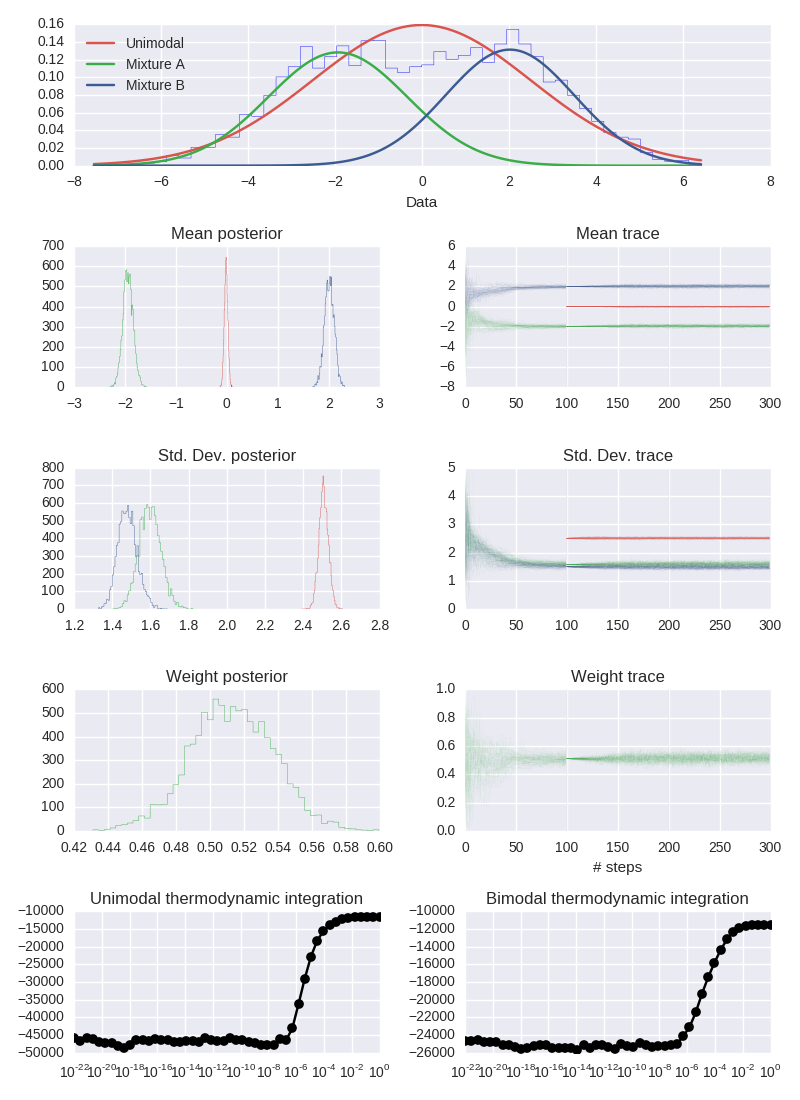
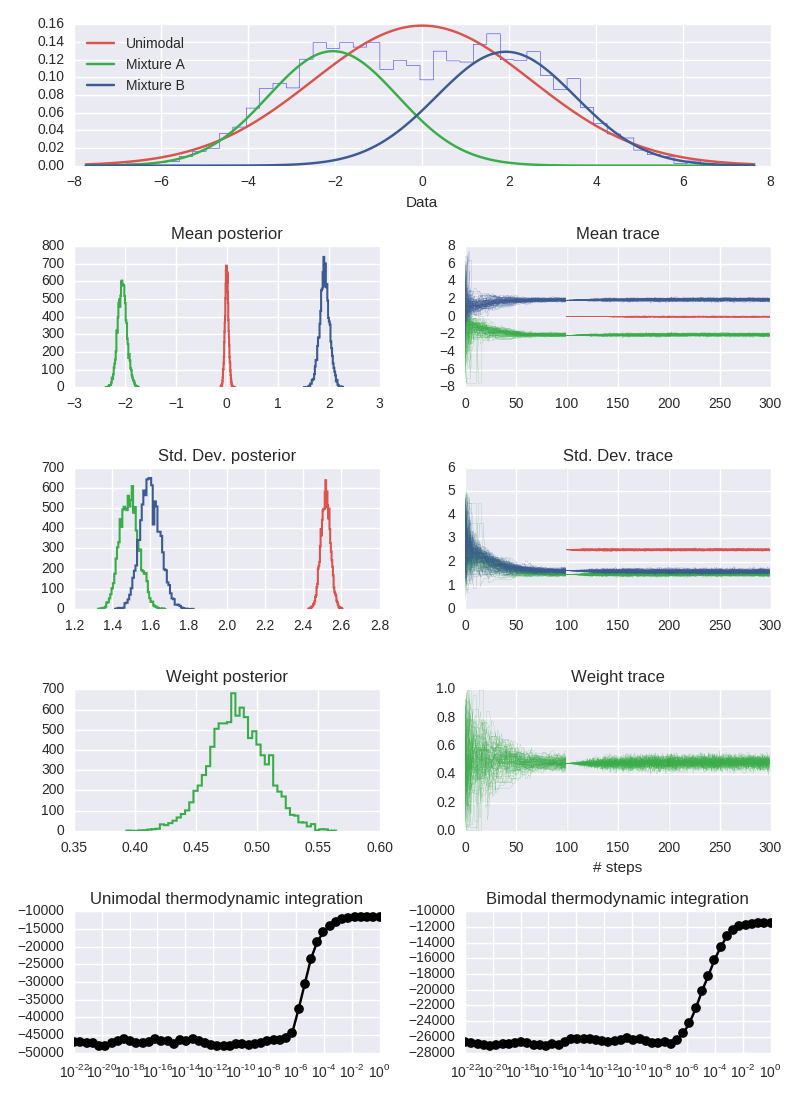
Improve read me and add Occam factor

diff --git a/BayesBimodalTest.py b/BayesBimodalTest.py
@@ -130,7 +130,8 @@ class BayesBimodalTest():
         self.bimodal_sigmaB = np.mean(self.bimodal_samples[:, 3])
         self.bimodal_p = np.mean(self.bimodal_samples[:, 4])
 
-    def diagnostic_plot(self, fname="diagnostic.png"):
+    def diagnostic_plot(self, fname="diagnostic.png", trace_line_width=0.1,
+                        hist_line_width=1.5):
         fig = plt.figure(figsize=(8, 11))
         unimodal_color = sns.xkcd_rgb["pale red"]
         bimodal_colorA = sns.xkcd_rgb["medium green"]
@@ -155,58 +156,58 @@ class BayesBimodalTest():
         ax00.legend(loc=2, frameon=False)
 
         ax10 = plt.subplot2grid((5, 2), (1, 0))
-        ax10.hist(self.unimodal_samples[:, 0], bins=50,
+        ax10.hist(self.unimodal_samples[:, 0], bins=50, linewidth=hist_line_width,
                   histtype="step", color=unimodal_color, label="$\mu_{0}$")
-        ax10.hist(self.bimodal_samples[:, 0], bins=50,
+        ax10.hist(self.bimodal_samples[:, 0], bins=50, linewidth=hist_line_width,
                   histtype="step", color=bimodal_colorA, label="$\mu_{A}$")
-        ax10.hist(self.bimodal_samples[:, 1], bins=50,
+        ax10.hist(self.bimodal_samples[:, 1], bins=50, linewidth=hist_line_width,
                   histtype="step", color=bimodal_colorB, label="$\mu_{B}$")
         ax10.set_title("Mean posterior")
 
         ax11 = plt.subplot2grid((5, 2), (1, 1))
-        ax11.plot(prods, self.unimodal_chains[:, :, 0].T, lw=0.01,
+        ax11.plot(prods, self.unimodal_chains[:, :, 0].T, lw=trace_line_width,
                   color=unimodal_color)
-        ax11.plot(burn0s, self.bimodal_chains0[:, :, 0].T, lw=0.01,
+        ax11.plot(burn0s, self.bimodal_chains0[:, :, 0].T, lw=trace_line_width,
                   color=bimodal_colorA)
-        ax11.plot(prods, self.bimodal_chains[:, :, 0].T, lw=0.01,
+        ax11.plot(prods, self.bimodal_chains[:, :, 0].T, lw=trace_line_width,
                   color=bimodal_colorA)
-        ax11.plot(burn0s, self.bimodal_chains0[:, :, 1].T, lw=0.01,
+        ax11.plot(burn0s, self.bimodal_chains0[:, :, 1].T, lw=trace_line_width,
                   color=bimodal_colorB)
-        ax11.plot(prods, self.bimodal_chains[:, :, 1].T, lw=0.01,
+        ax11.plot(prods, self.bimodal_chains[:, :, 1].T, lw=trace_line_width,
                   color=bimodal_colorB)
         ax11.set_title("Mean trace")
 
         ax20 = plt.subplot2grid((5, 2), (2, 0))
-        ax20.hist(self.unimodal_samples[:, 1], bins=50,
+        ax20.hist(self.unimodal_samples[:, 1], bins=50, linewidth=hist_line_width,
                   histtype="step", color=unimodal_color, label="$\sigma_{0}$")
-        ax20.hist(self.bimodal_samples[:, 2], bins=50,
+        ax20.hist(self.bimodal_samples[:, 2], bins=50, linewidth=hist_line_width,
                   histtype="step", color=bimodal_colorA, label="$\sigma_{A}$")
-        ax20.hist(self.bimodal_samples[:, 3], bins=50,
+        ax20.hist(self.bimodal_samples[:, 3], bins=50, linewidth=hist_line_width,
                   histtype="step", color=bimodal_colorB, label="$\sigma_{B}$")
         ax20.set_title("Std. Dev. posterior")
 
         ax21 = plt.subplot2grid((5, 2), (2, 1))
-        ax21.plot(prods, self.unimodal_chains[:, :, 1].T, lw=0.01,
+        ax21.plot(prods, self.unimodal_chains[:, :, 1].T, lw=trace_line_width,
                   color=unimodal_color)
-        ax21.plot(burn0s, self.bimodal_chains0[:, :, 2].T, lw=0.01,
+        ax21.plot(burn0s, self.bimodal_chains0[:, :, 2].T, lw=trace_line_width,
                   color=bimodal_colorA)
-        ax21.plot(prods, self.bimodal_chains[:, :, 2].T, lw=0.01,
+        ax21.plot(prods, self.bimodal_chains[:, :, 2].T, lw=trace_line_width,
                   color=bimodal_colorA)
-        ax21.plot(burn0s, self.bimodal_chains0[:, :, 3].T, lw=0.01,
+        ax21.plot(burn0s, self.bimodal_chains0[:, :, 3].T, lw=trace_line_width,
                   color=bimodal_colorB)
-        ax21.plot(prods, self.bimodal_chains[:, :, 3].T, lw=0.01,
+        ax21.plot(prods, self.bimodal_chains[:, :, 3].T, lw=trace_line_width,
                   color=bimodal_colorB)
         ax21.set_title("Std. Dev. trace")
 
         ax30 = plt.subplot2grid((5, 2), (3, 0))
         ax30.hist(self.bimodal_samples[:, 4], bins=50, histtype="step",
-                  color=bimodal_colorA, label="p")
+                  color=bimodal_colorA, label="p", linewidth=hist_line_width)
         ax30.set_title("Weight posterior")
 
         ax31 = plt.subplot2grid((5, 2), (3, 1))
-        ax31.plot(burn0s, self.bimodal_chains0[:, :, 4].T, lw=0.01,
+        ax31.plot(burn0s, self.bimodal_chains0[:, :, 4].T, lw=trace_line_width,
                   color=bimodal_colorA)
-        ax31.plot(prods, self.bimodal_chains[:, :, 4].T, lw=0.01,
+        ax31.plot(prods, self.bimodal_chains[:, :, 4].T, lw=trace_line_width,
                   color=bimodal_colorA)
         ax31.set_title("Weight trace")
         ax31.set_xlabel("# steps")
@@ -247,3 +248,7 @@ class BayesBimodalTest():
         bf_err = np.sqrt(bimodal_log10evidence_err**2 + unimodal_log10evidence_err**2)
         print "Bayes factor of {} +/- {}".format(bf, bf_err)
 
+        Umu = self.get_uniform_prior_lims('mu')
+        Usigma = self.get_uniform_prior_lims('sigma')
+        occams_factor = np.log10(Umu[1] - Umu[0]) + np.log10(Usigma[1] - Usigma[0])
+        print "Occams factor is {:1.2f}".format(occams_factor)

diff --git a/README.md b/README.md
@@ -1,35 +1,47 @@
 # Bayes Bimodal Test
 
 This is a simple implementation of a Bayesian model comparison for bimodality.
-In typical usage, we have a 1D set of data points `data`, then the test can be
-run with a single call to `BayesBimodalTest`. This fits a unimodal and bimodal
-Gaussian to the data, computes the unnormalised evidence for both and print
+In typical usage, we have a 1D set of data points `data`, then the test 
+fits a unimodal and bimodal
+Gaussian to the data, computes the unnormalised evidence for both and prints
 the so-called Bayes factor [Bayes Factor](https://en.wikipedia.org/wiki/Bayes_factor)
 between the two models.
 
 ## Example
 
-This is the code contained in the simple `test.py` example
+This is the code contained in the `test.py` example
 
 ``` python
 import BayesBimodalTest as BBT
 import numpy as np
 
+# Generate fake data
 N = 5000
 dataA = np.random.normal(2, 1.5, N/2)
 dataB = np.random.normal(-2, 1.5, N/2)
 data = np.concatenate([dataA, dataB])
+
+# Create a test object
 test = BBT.BayesBimodalTest(data, nburn0=100, nburn=100, nprod=100, ntemps=50)
+
+# Create the diagnostic plot
 test.diagnostic_plot()
+
+# Print the Bayes factor
 test.BayesFactor()
 ```
 
 Running this code will output a log10 Bayes factor, in this case of `68.1 +/- 5.0` giving
-strong evidence in support of the Bimodal model. It will also produce a
+strong evidence in support of the Bimodal model. To be specific, this mean that
+`P(bimodal| data) / P(unimodal| data)) = 10^{68.51}`. The error is an estimate
+of the systematic error produced by the numerical integration of the temperature,
+this can be reduced by increasing the number of temperatures.
+
+It will also produce a
 diagnostic plot which we show below. In the top panel is the
 original raw data along with the fitted underlying distributions, then 6 panels
 gives the posterior and traces of the mean, std. dev., and the weight (only of
-the bimodal mixture model). Finally there are two plots of the therodynamic
+the bimodal mixture model). Finally there are two plots of the thermodynamic
 integration used to calculate the evidence.
 
 ![demo](diagnostic.png)
@@ -38,25 +50,32 @@ integration used to calculate the evidence.
 
 * We use the [parallel tempered emcee sampler (PTSampler)](http://dan.iel.fm/emcee/current/user/pt/)  to perform MCMC parameter estimation.
 
-* The PTSampler convieniently has in-built thermodynamic integration to estimate the
+* The PTSampler conveniently has in-built thermodynamic integration to estimate the
   the evidence and error of that evidence. For more information see the implementation
   notes of the PTSampler
 
 * The methodology for the MCMC chains is a three step process as follows.
 
-  > Define uniform priors for the mean by `[min(data), max(data]`, for the
+  1. Define uniform priors for the mean by `[min(data), max(data)]`, for the
     std. dev. by `[0, 2std(data)]`, and for the weight of the bimodal mixture
      model as `[0, 1]`.
 
-  > Initialise
+  2. Initialise
   the MCMC chains picking randomly from these priors, run for `nburn0` steps.
 
-  > Select the chain with the largest probability and reinitialise all the chains
+  3. Select the chain with the largest probability and reinitialise all the chains
   in a small spread about this point. Run the chains for `nburn` and discard,
   run the chains for `nprod` and use to estimate the posterior and evidence.
 
-  This `nburn0` run here removes the chains which stuck. It is not always neccersery,
-  and if the posteriors are multimodal can infact distort the inference, so the
-  chains should always be checked.
+  This `nburn0` run here removes the chains which get stuck. It is not always required,
+  and if the posteriors are multimodal can in fact distort the inference, so the
+  chains should always be checked. This step can be removed by setting `nburn0=0`.
+
+* The choice of priors *always* favours the unimodal model with a Occam factor
+  of `-(log10(max(data) - min(data)) + log10(2 std(data)))`. This is printed
+  out along with Bayes factor. If the evidence is smaller than this value, then
+  one should examine the assumptions made on the prior. For the example above
+  the Occam factor is `1.86`, which is much smaller than the evidence and hence
+  the conclusion is robust to changes in the prior.
 
 
